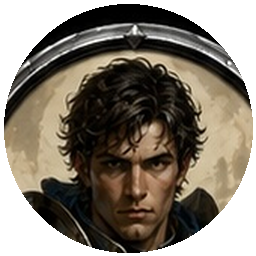
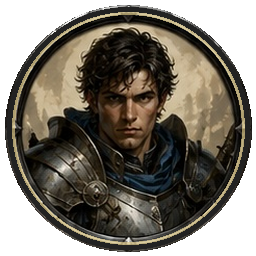
本版本基于 v18.2.5，主要修复 Token 头像切图问题，并为单位编辑器增加头像库选择。

diff --git a/src/unitEditorMain.js b/src/unitEditorMain.js
@@ -12,6 +12,27 @@ import {
 const ABILITIES = ["STR", "DEX", "CON", "INT", "WIS", "CHA"];
 let selectedUnitId = null;
 
+const TOKEN_OPTIONS = [
+  ["fighter", "人类战士"],
+  ["elf_ranger", "精灵游侠"],
+  ["dwarf_warrior", "矮人战士"],
+  ["human_cleric", "人类牧师"],
+  ["drow_warlock", "卓尔术士"],
+  ["tiefling_fighter", "提夫林战士"],
+  ["dragonborn_paladin", "龙裔圣武士"],
+  ["halfling_rogue", "半身人盗贼"],
+  ["tiefling_mage", "提夫林法师"],
+  ["hooded_rogue", "兜帽盗贼"],
+  ["red_dragon", "红龙"],
+  ["beholder", "眼魔"],
+  ["vampire", "吸血鬼"],
+  ["orc", "兽人"],
+  ["skeleton", "骷髅兵"],
+  ["wraith", "幽魂"],
+  ["mind_flayer", "夺心魔"],
+  ["owlbear", "枭熊"],
+];
+
 function clone(value) { return JSON.parse(JSON.stringify(value)); }
 function toInt(value, fallback) {
   const n = Number.parseInt(value, 10);
@@ -76,6 +97,23 @@ function bindFormRefs() {
   for (const [key, id] of Object.entries(ids)) form[key] = document.getElementById(id);
 }
 
+
+function renderTokenGallery() {
+  const gallery = document.getElementById("tokenGallery");
+  if (!gallery) return;
+  const currentAvatar = form.avatar?.value || "";
+  gallery.innerHTML = TOKEN_OPTIONS.map(([id, label]) => {
+    const path = `./assets/tokens/${id}.png`;
+    const selected = currentAvatar === path ? "selected" : "";
+    return `
+      <button class="token-choice ${selected}" data-avatar="${path}" title="${label}">
+        <img src="${path}" alt="${label}">
+        <span>${label}</span>
+      </button>
+    `;
+  }).join("");
+}
+
 function renderCatalog() {
   const catalog = document.getElementById("unitCatalog");
   if (!catalog) return;
@@ -115,6 +153,7 @@ function loadUnit(unitId) {
   form.classFeatures.value = inputFromList(unit.classFeatures);
   for (const ability of ABILITIES) form[ability].value = unit.abilities?.[ability] ?? 10;
   renderCatalog();
+  renderTokenGallery();
   output({ selected: unit });
 }
 
@@ -149,6 +188,7 @@ function applyForm({ allowIdChange = true } = {}) {
   unit.abilities = unit.abilities || {};
   for (const ability of ABILITIES) unit.abilities[ability] = Math.max(1, Math.min(30, toInt(form[ability].value, unit.abilities[ability] || 10)));
   renderCatalog();
+  renderTokenGallery();
   output(`已应用 ${unit.name}。点击“保存到浏览器”后，游玩界面和关卡编辑器会使用新数据。`);
 }
 
@@ -179,6 +219,7 @@ function deleteUnit() {
   if (index >= 0) INITIAL_UNITS.splice(index, 1);
   selectedUnitId = INITIAL_UNITS[0]?.id || null;
   renderCatalog();
+  renderTokenGallery();
   if (selectedUnitId) loadUnit(selectedUnitId);
   else output("已删除，当前没有单位。请新增单位。");
 }
@@ -189,12 +230,21 @@ async function init() {
   bindFormRefs();
   selectedUnitId = INITIAL_UNITS[0]?.id || null;
   renderCatalog();
+  renderTokenGallery();
   if (selectedUnitId) loadUnit(selectedUnitId);
 
   document.getElementById("unitCatalog")?.addEventListener("click", event => {
     const card = event.target.closest?.("[data-unit-id]");
     if (card) loadUnit(card.dataset.unitId);
   });
+  document.getElementById("tokenGallery")?.addEventListener("click", event => {
+    const choice = event.target.closest?.("[data-avatar]");
+    if (!choice) return;
+    form.avatar.value = choice.dataset.avatar;
+    renderTokenGallery();
+    output(`已选择头像：${choice.dataset.avatar}。点击“应用到当前单位”或“保存到浏览器”生效。`);
+  });
+  form.avatar?.addEventListener("input", renderTokenGallery);
   document.getElementById("newUnitBtn")?.addEventListener("click", newUnit);
   document.getElementById("applyUnitBtn")?.addEventListener("click", () => applyForm());
   document.getElementById("duplicateUnitBtn")?.addEventListener("click", duplicateUnit);

diff --git a/unit-editor.html b/unit-editor.html
@@ -3,14 +3,14 @@
 <head>
   <meta charset="UTF-8" />
   <meta name="viewport" content="width=device-width, initial-scale=1.0" />
-  <title>DND 战棋战斗 Demo v18.2.5 单位编辑器</title>
+  <title>DND 战棋战斗 Demo v18.2.6 单位编辑器</title>
   <link rel="stylesheet" href="./src/style.css" />
 </head>
 <body>
   <div class="unit-editor-page app-wide">
     <header class="editor-header">
       <div>
-        <h1>DND 单位编辑器 v18.2.5</h1>
+        <h1>DND 单位编辑器 v18.2.6</h1>
         <p>独立编辑玩家、怪物和 NPC 数据。保存到浏览器后，关卡编辑器和游玩界面都会读取这些单位数据。</p>
       </div>
       <nav class="top-links">
@@ -52,6 +52,10 @@
           <label>法术 IDs<input id="unitSpellsInput" placeholder="逗号分隔"></label>
           <label>职业特性 IDs<input id="unitFeaturesInput" placeholder="逗号分隔"></label>
         </div>
+
+        <h2>头像库</h2>
+        <p class="editor-note">点击头像即可填入头像路径。当前头像已重新从原图居中切割为 256×256 Token。</p>
+        <div id="tokenGallery" class="token-gallery"></div>
         <div class="debug-toolbar unit-editor-actions">
           <button id="applyUnitBtn">应用到当前单位</button>
           <button id="duplicateUnitBtn">复制为新单位</button>

diff --git a/src/style.css b/src/style.css
@@ -601,3 +601,55 @@ body.play-page {
   .unit-editor-sidebar { position: static; max-height: none; }
   .unit-editor-grid.large { grid-template-columns: 1fr; }
 }
+
+/* v18.2.6 token gallery */
+.editor-note {
+  margin: 0 0 10px;
+  color: #6b7280;
+  font-size: 13px;
+}
+.token-gallery {
+  display: grid;
+  grid-template-columns: repeat(auto-fill, minmax(92px, 1fr));
+  gap: 10px;
+  max-height: 310px;
+  overflow: auto;
+  padding: 10px;
+  border: 1px solid #e5e7eb;
+  border-radius: 14px;
+  background: #f8fafc;
+  margin-bottom: 14px;
+}
+.token-choice {
+  border: 1px solid #e5e7eb;
+  background: #fff;
+  border-radius: 12px;
+  padding: 8px 6px;
+  cursor: pointer;
+  display: flex;
+  flex-direction: column;
+  align-items: center;
+  gap: 6px;
+  min-height: 112px;
+  color: #111827;
+}
+.token-choice:hover {
+  border-color: #14b8a6;
+  box-shadow: 0 8px 18px rgba(20, 184, 166, .16);
+}
+.token-choice.selected {
+  border-color: #0f766e;
+  box-shadow: 0 0 0 3px rgba(20, 184, 166, .18);
+}
+.token-choice img {
+  width: 64px;
+  height: 64px;
+  border-radius: 50%;
+  object-fit: cover;
+  background: #111827;
+}
+.token-choice span {
+  font-size: 12px;
+  line-height: 1.2;
+  text-align: center;
+}

diff --git a/README.md b/README.md
@@ -1,44 +1,26 @@
-# DND HTML5 Demo v18.2.5
+# DND HTML5 Battle Demo v18.2.6
 
-本版重点调整：将“单位编辑器”和“关卡编辑器”拆成两个独立页面。
+本版本基于 v18.2.5，主要修复 Token 头像切图问题，并为单位编辑器增加头像库选择。
 
-## 页面
+## 页面入口
 
-- `index.html`：游玩界面
-- `editor.html`：关卡编辑器，只编辑地图、地形、出生点和关卡数据
-- `unit-editor.html`：单位编辑器，独立编辑玩家、怪物、NPC 的属性数据
+- 游玩界面：`http://localhost:8000/`
+- 关卡编辑器：`http://localhost:8000/editor.html`
+- 单位编辑器：`http://localhost:8000/unit-editor.html`
 
-## 新增能力
+## 本版更新
 
-1. 单位编辑界面独立
-   - 可新增、复制、删除单位
-   - 可编辑名称、阵营、职业、等级、头像、HP、AC、移动力、熟练加值、六项属性、技能、法术、职业特性
-   - 可保存到浏览器 localStorage
-   - 可导入/导出 `units.json` 或完整项目数据包
+1. 重新从原始头像图中居中切割 Token，统一输出为 `256x256` PNG。
+2. 修复旧版 `assets/tokens/` 下头像偏移、切歪的问题。
+3. 新增更多可用头像资源：战士、精灵、矮人、牧师、卓尔、提夫林、龙裔、半身人、兜帽盗贼、红龙、眼魔、吸血鬼、兽人、骷髅、幽魂、夺心魔、枭熊等。
+4. 单位编辑器新增“头像库”，点击头像即可填入头像路径。
+5. 保留游玩界面 / 关卡编辑器 / 单位编辑器分离结构。
 
-2. 关卡编辑器显示单位数据列表
-   - 列表读取当前已编辑的单位数据
-   - 点击单位卡片进入放置模式
-   - 再点击棋盘即可把该单位作为玩家/敌人出生点添加进场景
-   - 右键出生点可删除
-
-3. 游玩界面读取编辑结果
-   - 单位编辑器保存后，返回游玩界面即可使用新单位数据
-   - 关卡编辑器保存后，游玩界面会按新出生点加载战斗
-
-## 运行
+## 运行方式
 
 ```bash
-cd dnd-html5-demo-v18-2-5
+cd dnd-html5-demo-v18-2-6
 python -m http.server 8000
 ```
 
-然后打开：
-
-- 游玩界面：http://localhost:8000
-- 关卡编辑器：http://localhost:8000/editor.html
-- 单位编辑器：http://localhost:8000/unit-editor.html
-
-## 注意
-
-编辑结果默认是运行时数据。要让游玩界面读取，请在单位编辑器或关卡编辑器中点击“保存到浏览器”。如果要持久化到项目文件，请导出 JSON 后替换 `data/` 目录中的对应文件。
+然后打开浏览器访问上面的页面入口。
